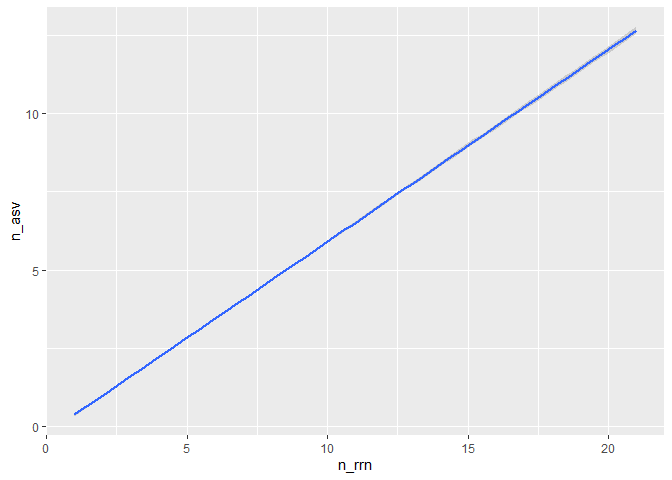
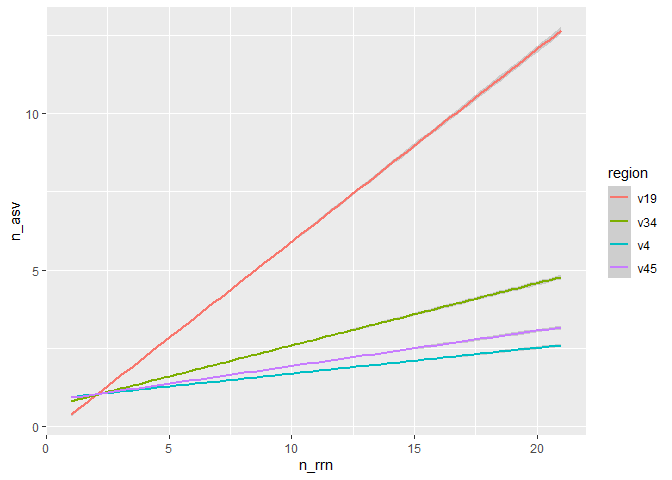
Combine count_tibble files, update exploratory analysis. Close #22.

diff --git a/exploratory/2022-09-30_genome_sens_spec.md b/exploratory/2022-09-30_genome_sens_spec.md
@@ -12,27 +12,19 @@ library(scales)
 
 ### Need to determine the number of *rrn* operons across genomes.
 
-Our analysis will use full length sequences:
-
 ``` r
-fl <- read_tsv(here("data/v19/rrnDB.count_tibble"))
+count_tibble <- read_tsv(here("data/processed/rrnDB.count_tibble"),
+                         col_types = "cccd")
 ```
 
-    ## Rows: 82533 Columns: 3
-    ## ── Column specification ────────────────────────────────────────────────────────
-    ## Delimiter: "\t"
-    ## chr (2): asv, genome
-    ## dbl (1): count
-    ## 
-    ## ℹ Use `spec()` to retrieve the full column specification for this data.
-    ## ℹ Specify the column types or set `show_col_types = FALSE` to quiet this message.
-
-How many rrn copies are in each genome?
+How many rrn copies are in each genome for the full-length sequences
+(v1-9)?
 
 ``` r
-fl %>% 
+count_tibble %>% 
+  filter(region == "v19") %>%
   group_by(genome) %>% 
-  summarise(n_rrn = sum(count)) %>%
+  summarise(n_rrn = sum(count), .groups="drop") %>%
   ggplot(aes(x = n_rrn)) + geom_histogram(binwidth = 1)
 ```
 
@@ -41,9 +33,10 @@ fl %>%
 What do these numbers look like as a fraction of all genomes?
 
 ``` r
-fl %>% 
+count_tibble %>% 
+  filter(region == "v19") %>% 
   group_by(genome) %>% 
-  summarise(n_rrn = sum(count)) %>%
+  summarise(n_rrn = sum(count), .groups="drop") %>%
   count(n_rrn) %>% 
   mutate(fraction = n/sum(n))
 ```
@@ -73,163 +66,70 @@ we need to know whether they all have the same ASV. Otherwise, we run
 the risk of splitting a single genome into multiple ASVs.
 
 ``` r
-fl %>%
-  group_by(genome) %>% 
-  summarise(n_asv = n(), n_rrn = sum(count)) %>% 
-  group_by(n_rrn) %>% 
+count_tibble %>% 
+  group_by(region, genome) %>% 
+  summarise(n_asv = n(), n_rrn = sum(count), .groups="drop") %>% 
+  group_by(region, n_rrn) %>% 
   summarise(med_n_asv = median(n_asv),
+            mean_n_asv = mean(n_asv),
             lq_n_asv = quantile(n_asv, prob=0.25),
             uq_n_asv = quantile(n_asv, prob = 0.75))
 ```
 
-    ## # A tibble: 21 × 4
-    ##    n_rrn med_n_asv lq_n_asv uq_n_asv
-    ##    <dbl>     <dbl>    <dbl>    <dbl>
-    ##  1     1         1        1        1
-    ##  2     2         1        1        2
-    ##  3     3         1        1        2
-    ##  4     4         1        1        2
-    ##  5     5         3        1        4
-    ##  6     6         2        1        4
-    ##  7     7         4        3        6
-    ##  8     8         5        3        7
-    ##  9     9         7        5        8
-    ## 10    10         7        4        9
-    ## # … with 11 more rows
+    ## # A tibble: 84 × 6
+    ## # Groups:   region [4]
+    ##    region n_rrn med_n_asv mean_n_asv lq_n_asv uq_n_asv
+    ##    <chr>  <dbl>     <dbl>      <dbl>    <dbl>    <dbl>
+    ##  1 v19        1         1       1           1        1
+    ##  2 v19        2         1       1.28        1        2
+    ##  3 v19        3         1       1.40        1        2
+    ##  4 v19        4         1       1.82        1        2
+    ##  5 v19        5         3       2.71        1        4
+    ##  6 v19        6         2       2.76        1        4
+    ##  7 v19        7         4       4.25        3        6
+    ##  8 v19        8         5       4.72        3        7
+    ##  9 v19        9         7       6.31        5        8
+    ## 10 v19       10         7       6.25        4        9
+    ## # … with 74 more rows
 
 ``` r
-fl %>%
-  group_by(genome) %>% 
-  summarise(n_asv = n(), n_rrn = sum(count)) %>% 
-  ggplot(aes(x = n_rrn, y = n_asv)) + geom_smooth(method = "lm")
+count_tibble %>%
+  group_by(region, genome) %>% 
+  summarise(n_asv = n(), n_rrn = sum(count), .groups="drop") %>% 
+  ggplot(aes(x = n_rrn, y = n_asv, color = region)) + geom_smooth(method = "lm")
 ```
-
-    ## `geom_smooth()` using formula 'y ~ x'
 
 ![](2022-09-30_genome_sens_spec_files/figure-gfm/n_ASV-1.png)<!-- -->
 
 Surprisingly, the number of ASVs increases at a rate of about 2 ASVs per
-3 copies of the *rrn* operon in the genome.
+3 copies of the *rrn* operon in the genome for the full-length sequence.
+The sub- regions of the gene have fewer ASVs per *rrn* operon.
 
 ### How many genomes does each ASV appear in?
 
 Are ASVs unique to genomes they are found in?
 
 ``` r
-(ASV_per_genome <- fl %>% 
-  group_by(asv) %>% 
+(ASV_per_genome <- count_tibble %>% 
+  group_by(region, asv) %>% 
   summarise(n_genome = n()) %>% 
   count(n_genome) %>% 
-  mutate(fraction = n/sum(n)))
+  mutate(fraction = n/sum(n)) %>% 
+  filter(n_genome == 1))
 ```
 
-    ## # A tibble: 141 × 3
-    ##    n_genome     n fraction
-    ##       <int> <int>    <dbl>
-    ##  1        1 32421  0.826  
-    ##  2        2  3328  0.0847 
-    ##  3        3  1144  0.0291 
-    ##  4        4   605  0.0154 
-    ##  5        5   337  0.00858
-    ##  6        6   252  0.00642
-    ##  7        7   166  0.00423
-    ##  8        8   112  0.00285
-    ##  9        9    99  0.00252
-    ## 10       10    82  0.00209
-    ## # … with 131 more rows
+    ## # A tibble: 4 × 4
+    ## # Groups:   region [4]
+    ##   region n_genome     n fraction
+    ##   <chr>     <int> <int>    <dbl>
+    ## 1 v19           1 32421    0.826
+    ## 2 v34           1 11718    0.780
+    ## 3 v4            1  7165    0.751
+    ## 4 v45           1  9423    0.779
 
 We see that (for full-length sequences) 82.56 % of ASVs were unique to a
-genome.
-
-#### Does sensitivity and specificity change if we look at a shorter region?
-
-Previously we looked at full-length sequences that span the entire range
-of the gene (V1-9). What if we just look at the V4 region?
-
-We know that the V4 region is less diverse than the full-length
-sequence, so does the number of ASVs per genome differ? Are ASVs as
-specific in this region?
-
-``` r
-v4 <- read_tsv(here("data/v4/rrnDB.count_tibble"))
-```
-
-    ## Rows: 35811 Columns: 3
-    ## ── Column specification ────────────────────────────────────────────────────────
-    ## Delimiter: "\t"
-    ## chr (2): asv, genome
-    ## dbl (1): count
-    ## 
-    ## ℹ Use `spec()` to retrieve the full column specification for this data.
-    ## ℹ Specify the column types or set `show_col_types = FALSE` to quiet this message.
-
-``` r
-v4 %>%
-  group_by(genome) %>% 
-  summarise(n_asv = n(), n_rrn = sum(count)) %>% 
-  group_by(n_rrn) %>% 
-  summarise(mean_n_asv = mean(n_asv),
-            lq_n_asv = quantile(n_asv, prob=0.25),
-            uq_n_asv = quantile(n_asv, prob = 0.75))
-```
-
-    ## # A tibble: 21 × 4
-    ##    n_rrn mean_n_asv lq_n_asv uq_n_asv
-    ##    <dbl>      <dbl>    <dbl>    <dbl>
-    ##  1     1       1           1        1
-    ##  2     2       1.08        1        1
-    ##  3     3       1.09        1        1
-    ##  4     4       1.16        1        1
-    ##  5     5       1.31        1        1
-    ##  6     6       1.25        1        1
-    ##  7     7       1.37        1        1
-    ##  8     8       1.55        1        2
-    ##  9     9       1.60        1        2
-    ## 10    10       1.80        1        2
-    ## # … with 11 more rows
-
-``` r
-v4 %>%
-  group_by(genome) %>% 
-  summarise(n_asv = n(), n_rrn = sum(count)) %>% 
-  ggplot(aes(x = n_rrn, y = n_asv)) + geom_smooth(method = "lm")
-```
-
-    ## `geom_smooth()` using formula 'y ~ x'
-
-![](2022-09-30_genome_sens_spec_files/figure-gfm/V4-1.png)<!-- -->
-
-The number of ASVs per copy of the *rrn* operon is lower than for
-full-length sequences. We find 1.5 ASVs per 10 copies of the *rrn*
-operon.
-
-How many genomes does each ASV appear in for the V4 region?
-
-``` r
-(v4_ASV_per_genome <- v4 %>% 
-  group_by(asv) %>% 
-  summarise(n_genome = n()) %>% 
-  count(n_genome) %>% 
-  mutate(fraction = n/sum(n)))
-```
-
-    ## # A tibble: 111 × 3
-    ##    n_genome     n fraction
-    ##       <int> <int>    <dbl>
-    ##  1        1  7165  0.751  
-    ##  2        2  1022  0.107  
-    ##  3        3   399  0.0418 
-    ##  4        4   209  0.0219 
-    ##  5        5   129  0.0135 
-    ##  6        6    94  0.00986
-    ##  7        7    62  0.00650
-    ##  8        8    46  0.00482
-    ##  9        9    39  0.00409
-    ## 10       10    36  0.00378
-    ## # … with 101 more rows
-
-We find that about 75.14% of ASVs from the V4 region are specific to one
-genome.
+genome. For the sub-regions, the percentage of ASVs was lower: 78% for
+region 3-4, 75.14% for region 4 and 77.95% for region 4-5.
 
 #### To be determined:
 
